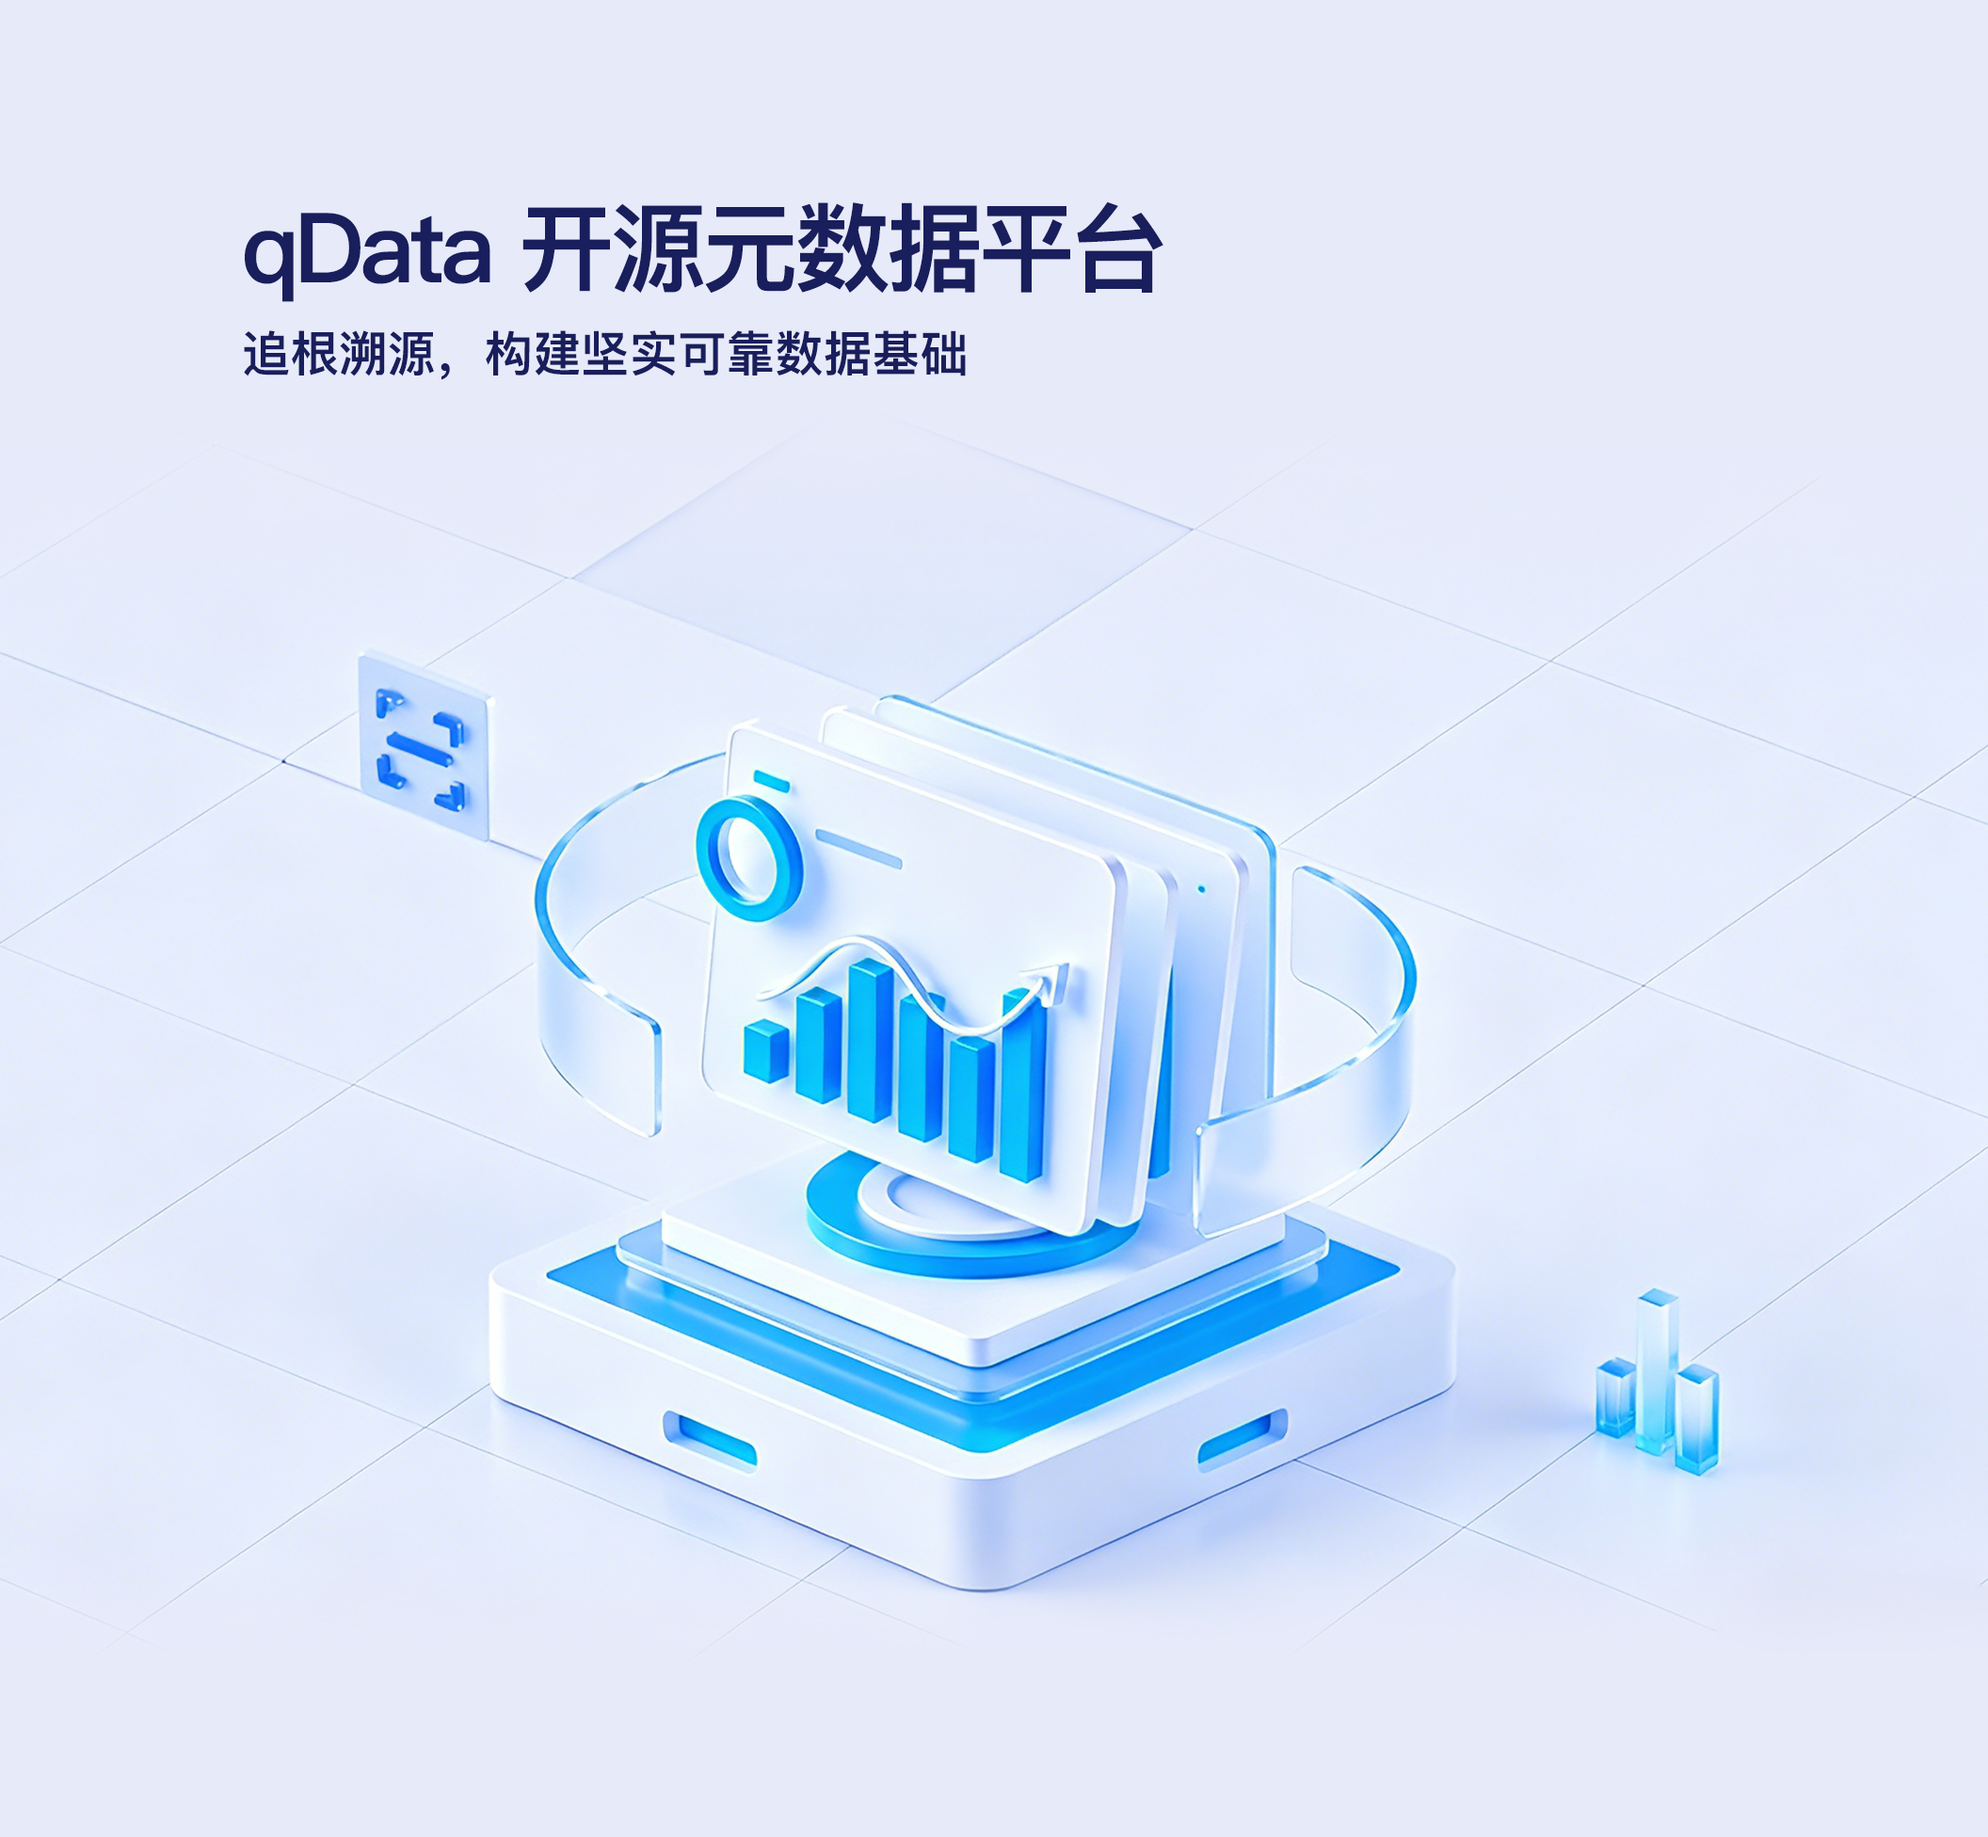
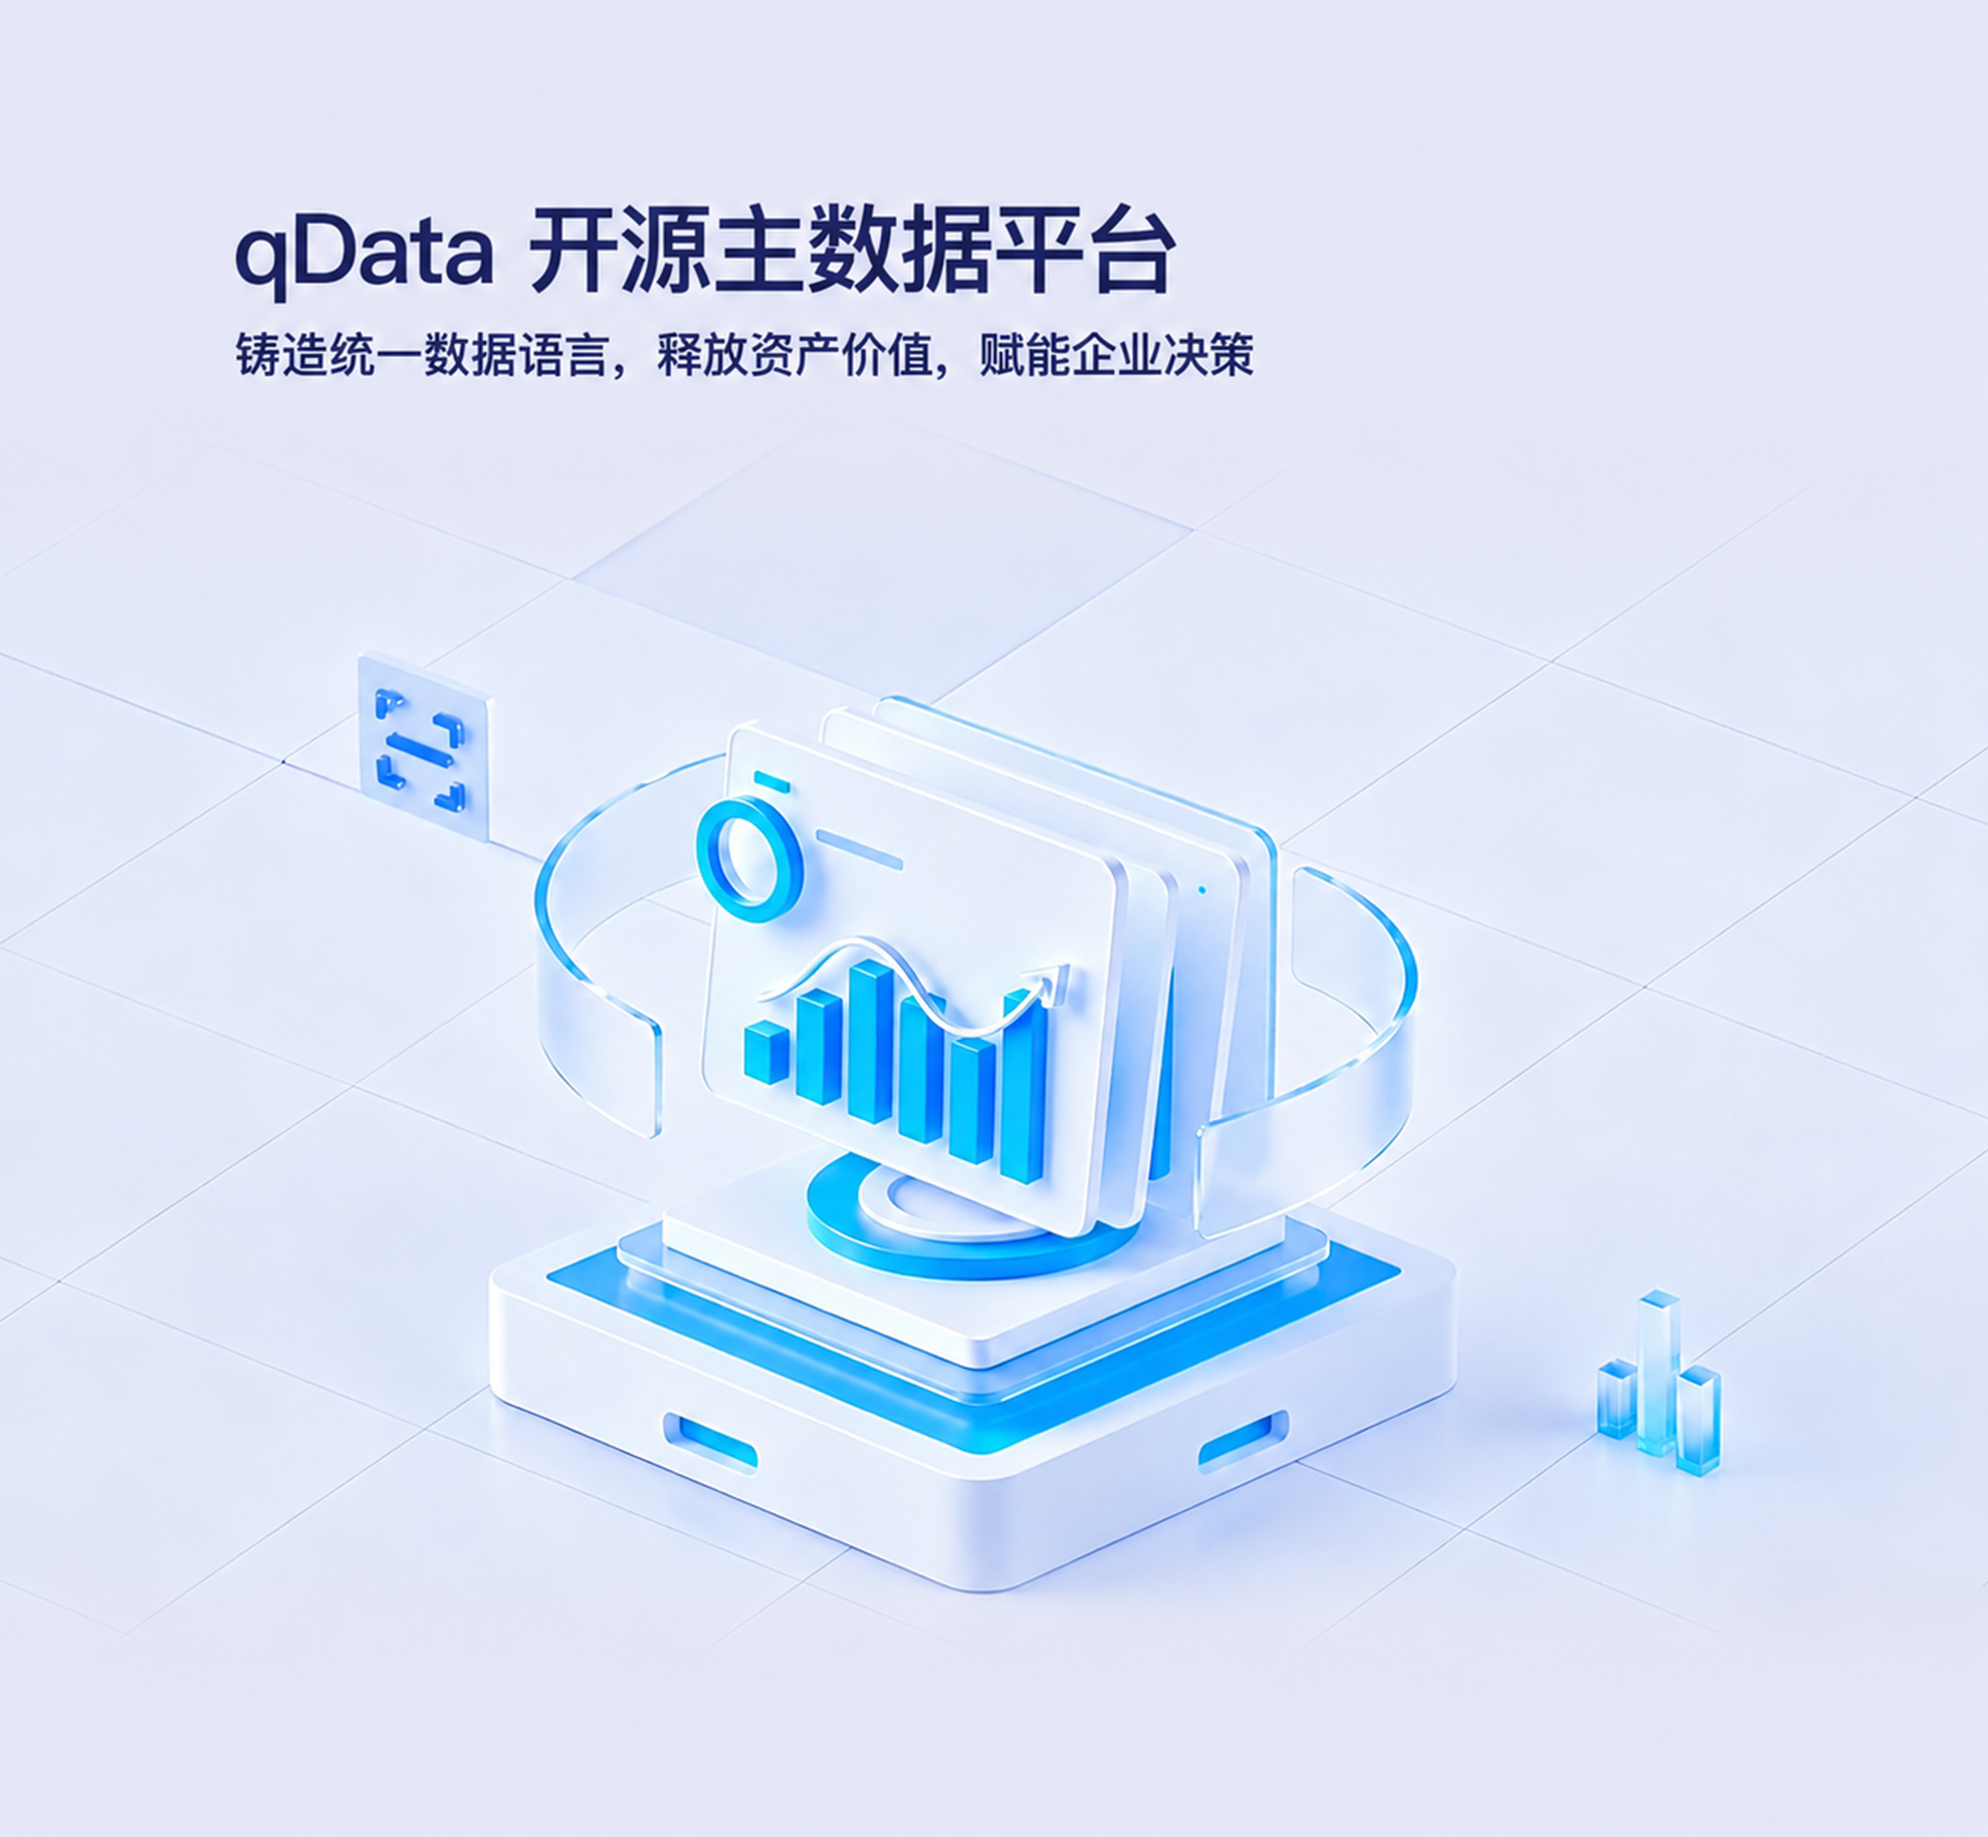
style:banner和logo更新

diff --git a/qdata-ui/src/layout/components/Sidebar/Logo.vue b/qdata-ui/src/layout/components/Sidebar/Logo.vue
@@ -122,8 +122,8 @@ const sideTheme = computed(() => settingsStore.sideTheme);
       margin-top: 8px;
       vertical-align: middle;
       // margin-right: 12px;
-      transform: scale(0.7);
-      margin-left: -30px;
+      transform: scale(.43);
+      margin-left: -120px;
     }
 
     & .sidebar-title {
